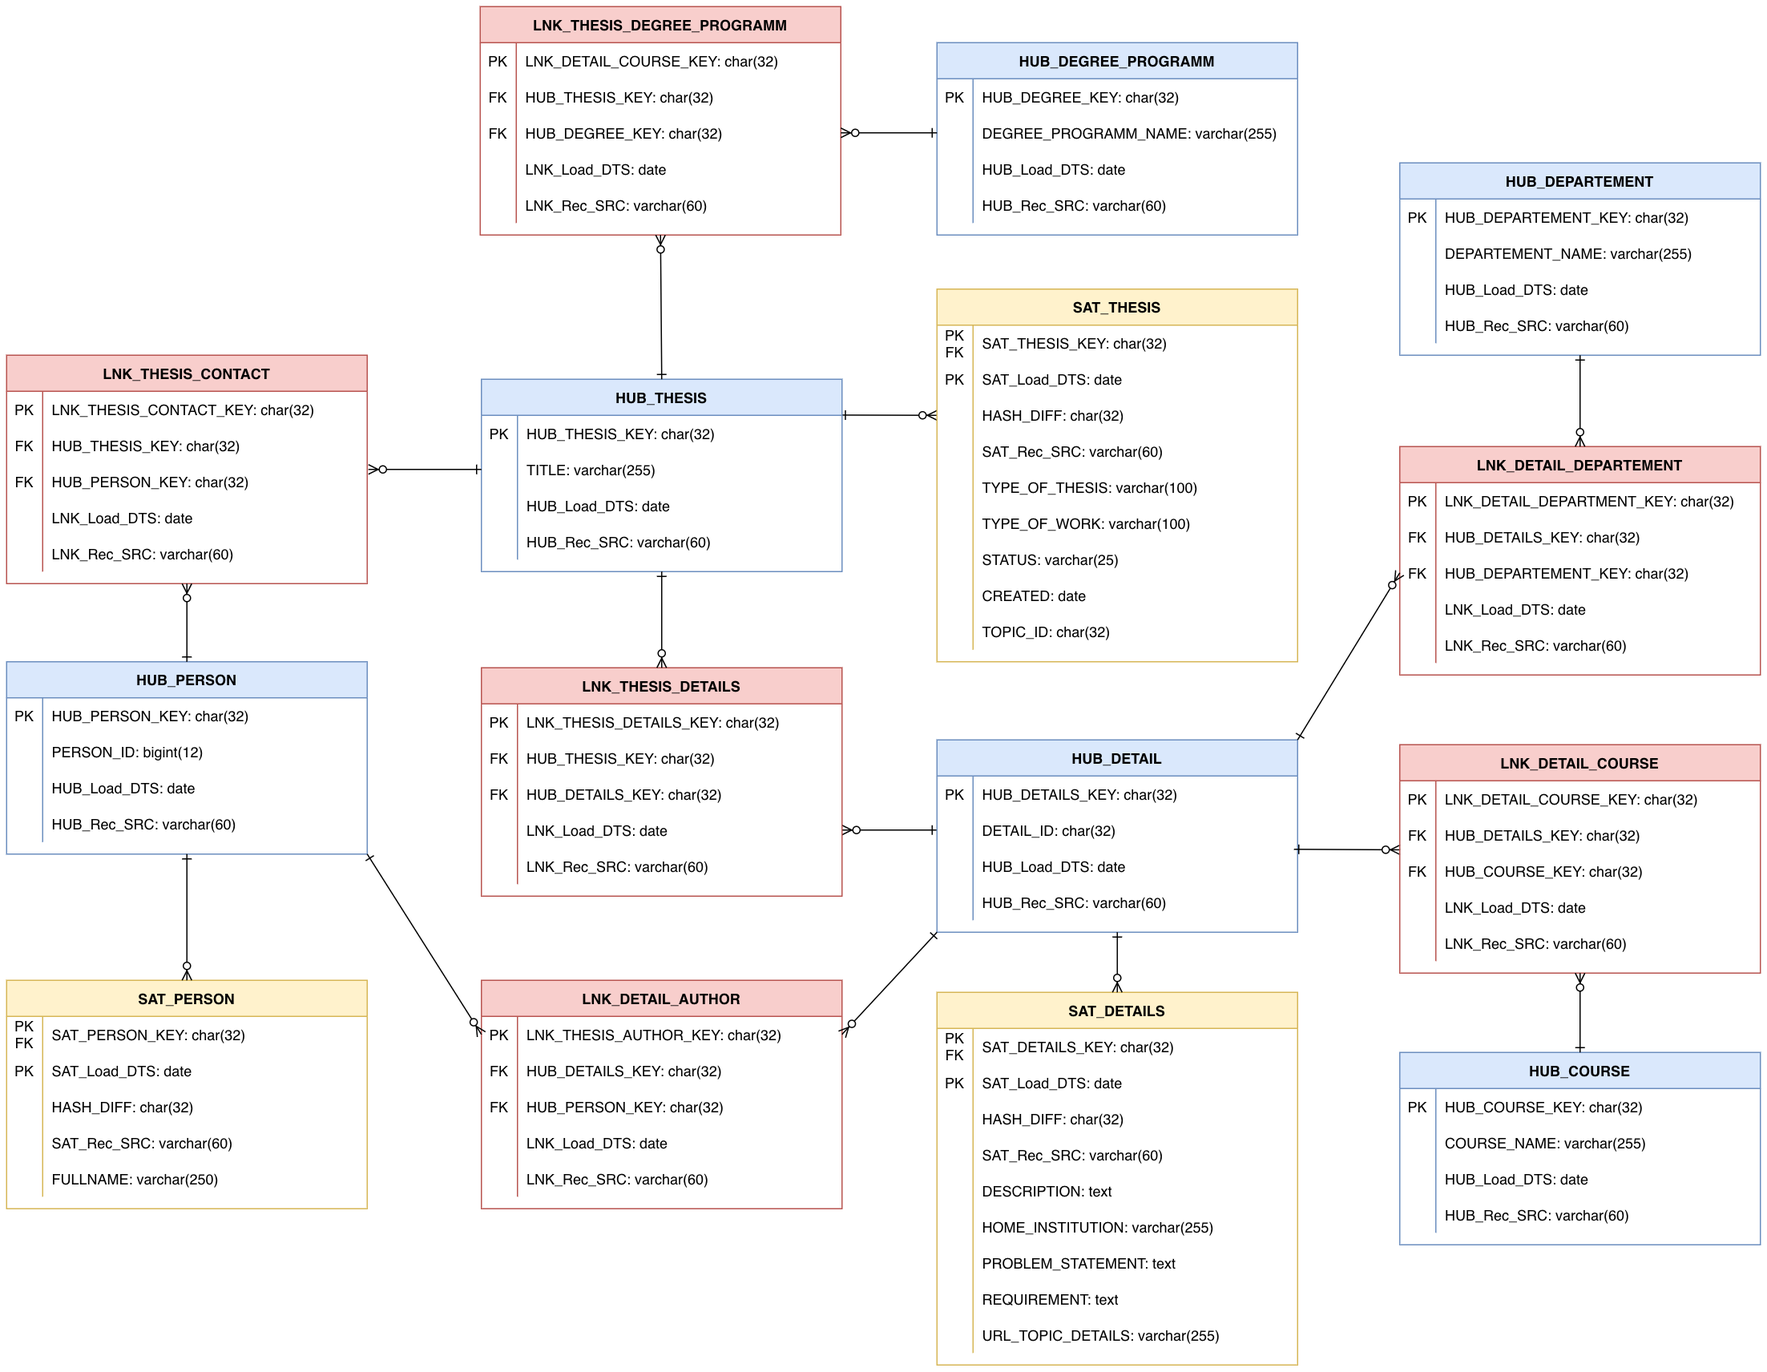
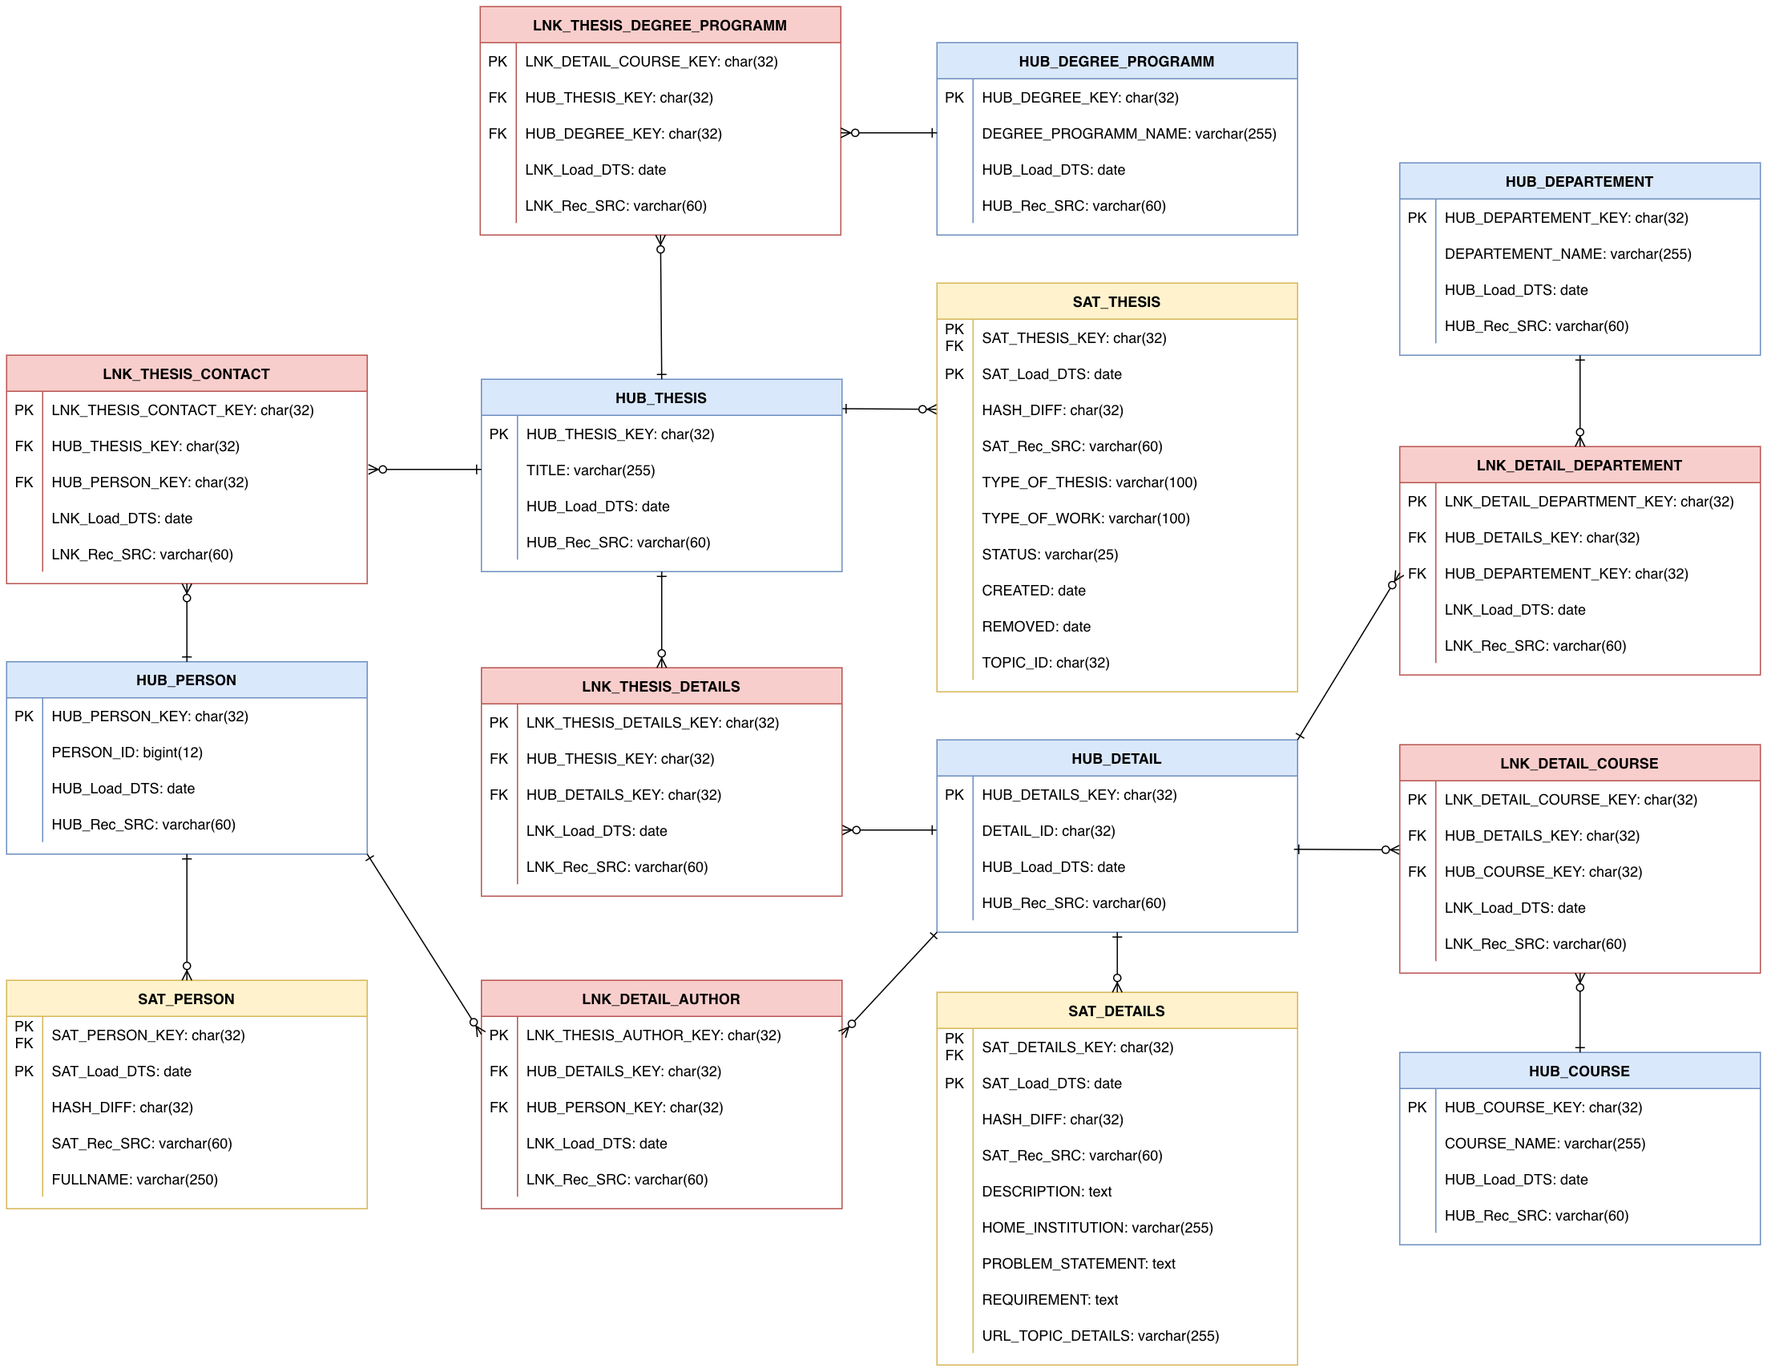
Finish project and documentation

Changed region(s): [[0.5243, 0.1857, 0.7401, 0.4953], [0.4934, 0.2786, 0.5243, 0.3096]]

diff --git a/etl/consolidate.py b/etl/consolidate.py
@@ -121,13 +121,33 @@ def md5_columns(*columns):
 
 
 def generate_person_id():
+    # Generate new person id
     return str(PersonId().id)
 
 
-def determine_removal_date(thesis_df):
-    return thesis_df
+def transform_removal_date(date, latest_export_date):
+    # Return the date when it does not match latest_export_date, else None (no date)
+    if date != latest_export_date:
+        return date
+    else:
+        return None
 
-# No calculation of removal date when no data from yesterday is present
+
+def add_removal_date(thesis_df):
+    # Calculate the latest export date (overall max export date over all thesis data)
+    latest_date = thesis_df['export_date'].max()
+
+    # Group all thesis by title and find the highest (latest) export date for each grouped thesis
+    thesis_date_df = thesis_df.groupby('title', as_index=False)['export_date'].max()
+
+    # Use the latest export date of a thesis as removal date when it is not the overall max export date
+    thesis_date_df['removed'] = thesis_date_df['export_date'].apply(lambda d: transform_removal_date(d, latest_date))
+
+    # Merge the thesis_df with the determined removed date from the thesis_date_df, before drop column "export_date"
+    thesis_date_df.drop('export_date', axis=1, inplace=True)
+    thesis_df = pd.merge(thesis_df, thesis_date_df, how='inner', on='title')
+
+    return thesis_df
 
 
 def insert_into_db(sql_command, *parameters):
@@ -136,12 +156,12 @@ def insert_into_db(sql_command, *parameters):
         # Connect to the PostgreSQL database
         conn = psycopg2.connect(host=LOCALHOST, port=PORT, database=DATABASE, user=USER, password=PASSWORD)
 
-        # create a cursor
+        # Create a cursor
         cursor = conn.cursor()
         cursor.execute(sql_command, *parameters)
         conn.commit()
 
-        # close the communication with the PostgreSQL
+        # Close the communication with PostgreSQL database
         cursor.close()
     except (Exception, psycopg2.DatabaseError) as error:
         print("Error accessing database: {}".format(error))
@@ -174,6 +194,7 @@ def load_data_into_db(thesis_df):
         thesis_requirement = str(thesis.requirement)
         thesis_departements = str(thesis.departements).split('|')
         thesis_courses = str(thesis.assigned_courses).split('|')
+        thesis_removed = thesis.removed
         load_date = str(thesis.export_date)
 
         # Insert the thesis (hub_thesis)
@@ -185,9 +206,9 @@ def load_data_into_db(thesis_df):
         # Insert the thesis satellite (sat_thesis)
         hash_diff = md5_columns(thesis_type, thesis_work_type, thesis_status, thesis_created, thesis_id)
         if hash_diff not in sat_thesis_cache:
-            insert_into_db("INSERT INTO sat_thesis VALUES (%s, %s, %s, %s, %s, %s, %s, %s, %s);",
+            insert_into_db("INSERT INTO sat_thesis VALUES (%s, %s, %s, %s, %s, %s, %s, %s, %s, %s);",
                            (md5(thesis_title), load_date, hash_diff, 'DigiDigger', thesis_type, thesis_work_type,
-                            thesis_status, thesis_created, thesis_id))
+                            thesis_status, thesis_created, thesis_removed, thesis_id))
             sat_thesis_cache.add(hash_diff)
 
         # Insert the thesis detail (hub_detail)
@@ -311,8 +332,8 @@ def load_data_into_db(thesis_df):
 
         # Calculate the progress of database import
         imported_thesis += 1
-        if imported_thesis == 1 or imported_thesis == number_of_thesis or imported_thesis % 20 == 0:
-            import_progress = round((imported_thesis / number_of_thesis) * 100, 2)
+        if imported_thesis == number_of_thesis or imported_thesis % 1000 == 0:
+            import_progress = round((imported_thesis / number_of_thesis) * 100)
             print('Database import progress: {}%'.format(import_progress))
 
 
@@ -339,7 +360,11 @@ transformed_thesis_df = None
 # Iterate over every export folder in the data set directory
 for export_dir in export_dir_set:
 
-    print('Processing export folder: {}'.format(export_dir))
+    # Calculate the progress of Extraction and Transformation process
+    progress = round((number_of_finished_dirs / number_of_dirs) * 100)
+    print('Processing export folder: {} -> Progress: {}%'.format(export_dir, progress))
+
+    # Build export file paths
     db_topics_path = "/".join([data_set_path, export_dir, db_topics_filename])
     db_topics_detail_path = "/".join([data_set_path, export_dir, db_topics_add_filename])
 
@@ -442,35 +467,29 @@ for export_dir in export_dir_set:
         print("Error: Number of topics in consolidation Dataframes differ!")
         sys.exit()
 
-    # Append the merged Dataframe for the export folder to resulting Dataframe
+    # Append the merged Dataframe for this export folder to the Dataframe with all exports
     if transformed_thesis_df is not None:
         transformed_thesis_df = pd.concat([transformed_thesis_df, merged_df], ignore_index=True)
     else:
         # The first daily export can be assigned directly
         transformed_thesis_df = merged_df
 
-    # Calculate the progress of Extraction and Transformation process
+    # Increase counter for progress
     number_of_finished_dirs += 1
-    progress = round((number_of_finished_dirs / number_of_dirs) * 100, 2)
-    print('Finished. Progress: {}%'.format(progress))
 
-# With the whole transformed thesis Dataframe a duplication check is possible (drop all full duplicates)
-# The export_date must be ignored because two thesis only differ in export_date are the same from business perspektive
-relevant_columns = transformed_thesis_df.columns.difference(['export_date'])
-print("Total number of thesis entries imported: {}".format(len(transformed_thesis_df)))
-transformed_thesis_df.drop_duplicates(subset=relevant_columns, inplace=True, keep='last')
-print("Cleaned (unique) number of thesis entries imported: {}".format(len(transformed_thesis_df)))
-# Write transformed Dataframe with thesis data to CSV file for testing purposes
-transformed_thesis_df.to_csv('transformed_thesis_df.csv', mode='a', index=False, encoding='utf-8', sep=';')
+print("Processing of {} export folders finished.".format(number_of_finished_dirs))
 
-# Determine the removal date of the thesis (when possible due to missing export data, see README.md, Step 4).
-print("Trying to determine removal date of thesis...")
-transformed_thesis_df = determine_removal_date(transformed_thesis_df)
+# Add the removal date of the thesis (when possible due to missing export data, see README.md Step 1).
+print("Trying to determine removal date of thesis data...")
+transformed_thesis_df = add_removal_date(transformed_thesis_df)
+print("Finished to determine removal date of thesis data.")
+
+# KPIs for the ETL process (see README.md, Step 5)
+print("Total number of thesis entries imported: {}.".format(len(transformed_thesis_df)))
 print("Finished the import and transformation of the data set ({}).".format(data_set_path))
 
+# Import merged thesis data in the database
 print("Starting with the database import of the transformed thesis data.")
-
-# Write merged thesis data in the database
-# load_data_into_db(transformed_thesis_df)
+load_data_into_db(transformed_thesis_df)
 
 print("Finished the the database import of the transformed thesis data. Exiting script.")

diff --git a/README.md b/README.md
@@ -1,7 +1,7 @@
 # BI Mini-Project P02
 
 ## Introduction
-BI Mini Project that was developed at the University of Oldenburg. The project is based on a dataset of thesis topics offered at the university.
+BI Mini Project that was developed at the University of Oldenburg. The project is based on a dataset of thesis topics offered at the university in Stud.IP.
 
 This document is a detailed technical report about implementation. For setting up the project see _SETUP.md_.
 
@@ -58,7 +58,10 @@ Furthermore, the different files in the data set contain different data fields. 
 |                          | topic_id                      | **db-topics.json+csv**, db-topics-additional.json+csv |
 |                          | url_topic_details             | **db-topics.json+csv**                                |
 
-For reference of column "Possible Origins", see the folder structure image in this section. The marked (bold) origins show the preferred file for accessing this information later on in the ETL process. A file is **preferred** when it is the only file where this data field is available or when it is already structured convenient (JSON, XML) for extraction. As the "Study Data: Departement" and "Study data: Assigned courses" data fields are only present in the Detail HTML-Export, the HTML must be parsed/transformed when extracting the data.
+For reference of column "Possible Origins", see the folder structure image in this section. The marked (bold) origins show the preferred file for accessing this information later on in the ETL process. A file is **preferred** when it is the only file where this data field is available or when it is already structured convenient (JSON, XML) for extraction. As the "Study Data: Departement" and "Study data: Assigned courses" data fields are only present in the Detail HTML-Export, the HTML must be parsed/transformed when extracting the data. 
+The two data fields "kurzdarstellung_der_problematik" and "abgeschlossen_am" that are present in the newest daily 
+thesis exports contain mostly empty values and are disregarded.
+
 The table concludes this step of the project.
 
 ## Step 2: Data Vault Model
@@ -109,6 +112,7 @@ The dataset contains about 2.2GB of raw data that is assumed to contain a lot of
 Before starting the ETL-Process, cleanup of the data set and its structure may be reasonable. Further information and 
 necessary cleaning is described in the _SETUP.md_ (_Preparing the Data Set_).
 
+### Extract and Transform
 To extract and transform the data from the original data set into a "consolidated" data set a Python script is used. 
 For working with the data the _Pandas Framework_ was used, as it provides convenient functionalities (e.g. Dataframes) 
 for ETL processes. The script does the following steps for _each_ export folder in the dataset:
@@ -121,37 +125,87 @@ for ETL processes. The script does the following steps for _each_ export folder 
 * Merge the data fields from the different files
 * Expand the merged data with relevant data fields
   * Export date of the thesis (export folder date)
-  * Removal/ Termination date of thesis
-* Import the data into the database by SQL insert statements
+  * Removed date of thesis
+* Check if all data frames contain same number of rows
+* Removing duplicates in the resulting Dataframe
 
-For the extraction of data from the HTML-Exports complex functions were needed, whereas the CSV files were read into 
-memory by Dataframes (_Pandas_). For the connection and import into the Database the Framework _psycopg2_ was used.
-As a generator person id was needed for inserting the authors and contacts into the thesis database, an own id generator 
-was implemented (see etl/id_generator.py). As an alternative, a database sequence could be used but must be queried 
-before every new person insert.
+For the extraction of data from the HTML-Exports Python functions were implemented, whereas the CSV files were read into 
+memory by Dataframes (_Pandas_). The expansion of the merged data was necessary to answer the business questions and to comply with the Data Vault Model.
+The _export date_ of the imported thesis files is needed to track changes in the data. The export date is given 
+directly by the export folder name.
+The _removed_ date shows when a thesis was removed/hidden and is no more offered. As there is missing data in the daily 
+thesis exports (see Step 1, Note) and the removal date of thesis is not given, it was determined as follows:
 
-The expansion of the merged data was necessary to answer the business questions and to comply with the Data Vault Model.
-The _export date_ of the files/ imported data is needed to track changes in the data. The _removal date_ shows when a 
-thesis was removed/hidden and is no more offered. As there is missing data in the daily thesis exports (see Step 1, Note) 
-and the remove that is not given, the _removal date_ of the thesis must be calculated or assumed. As the list of thesis 
-in the daily exports is ordered by creation date, following steps are used for:
-* Compare the thesis list of the daily export with the last daily export (yesterday)
-  * If a thesis is not present anymore: Mark it as "probably deleted"
-  * If a thesis is not present anymore and a thesis with an earlier creation data is still in list: Set the removal date!
-  * If a thesis is still present: Do nothing
-  * If thesis is marked as "probably deleted" and is present again (in the existing window): Remove "probably deleted"
-* At the end of the process consider all thesis that are marked with "probably deleted"
-  * If the thesis is in the missing data "window" (created date in missing window): Maintain "probably deleted"
+* Define the overall latest export date in the data set
+* Group the exported thesis and determine the latest export date of each thesis
+* Compare the latest export date of each thesis with the overall latest export date
+  * If the dates are equal, the thesis was present in the latest export and so it is not removed
+  * If the dates are not equal, the thesis is no longer present in the latest export and the removal date is the last 
+date the thesis was exported
 
+After important and transforming all thesis data, the consistency of the merged Dataframe is checked by comparing 
+the number of rows to all other Dataframes. As a last step, all duplicated rows in the merged Dataframe are removed by 
+checking for duplicates on all columns except _export date_. This yields a duplicate free merged Dataframe for import 
+inti the database.
 
-For further information see the commented source code under *etl/consolidate.py*. 
+### Import
+Next step of the ETL-Process is the import of the transformed thesis data in the database. For the database connection 
+and imports the Framework _psycopg2_ is used. The connection to the database is established with the beforehand created 
+thesis user. The import of thesis data is implemented by iterating row-wise over all thesis in the merged Dataframe. 
+For every row (thesis), all data fields are extracted and used to create the _Insert_ statements. 
+
+The _Insert_ statements are implemented considering the Data Vault Model with calculation of hash values for business 
+keys and calculation of _hash_diff_ on descriptive columns. In order to avoid duplicate database imports in Hubs, 
+Satellites and Links a Set "cache" with already inserted md5 hash values is held. When a md5 hash value is already 
+present in the Set "cache", no insert statement in the table is executed. The md5 hash calculation is done by two 
+helper functions. The following code shows an example for a Link table, the variables are named similar to the Data 
+Vault Model (_see Table lnk_detail_author_):
+```python
+detail_author_key = md5_columns(thesis_id, author_person_id)
+if detail_author_key not in lnk_detail_author_cache:
+  hub_details_key = md5(thesis_id)
+  hub_person_key = md5(author_person_id)
+  insert_into_db("INSERT INTO lnk_detail_author VALUES (%s, %s, %s, %s, %s);",
+                 (detail_author_key, hub_details_key, hub_person_key, load_date, 'DigiDigger'))
+  lnk_detail_author_cache.add(detail_author_key)
+```
+
+As a generated person id was needed for inserting the authors and contacts into the thesis database, an own id 
+generator was implemented (see etl/id_generator.py). As an alternative, a database sequence could be used but must 
+be queried before every new person insert.
+
+For further information and documentary of the ETL process see the commented source code under *etl/consolidate.py*. 
+To track progress and outcome of the ETL-process, logging is implemented and a report of the progress is given when 
+executing the Python script.
 
 In order to execute the ETL process (Python Script) the development environment must be configured. This is described 
 in the SETUP.md (Creating Python Environment).
 
 ## Step 5: Visualization and KPIs (Project Tasks)
-The last step after importing the thesis data into the database is the querying, visualization and the evaluation of KPIs. With 
-the visualization and KPIs the business questions can be answered.
+The last step after importing the thesis data into the database is the querying, visualization and the evaluation of 
+KPIs. With the visualization and KPIs the business questions can be answered.
+
+To ensure the success of the ETL process and the import of thesis data before starting with visualizations, detailed 
+logging and a progress indicator is implemented in the Python Script, as shown in the following excerpt. 
+For instance, the logging shows that all export folders contained about 78,000 thesis entries and 751 unique thesis 
+entries (including changes):
+```
+.........
+Processing export folder: 20221124_2300 -> Progress: 100%
+Processing of 493 export folders finished.
+Trying to determine removal date of thesis data...
+Finished to determine removal date of thesis data.
+Total number of thesis entries imported: 78523.
+Finished the import and transformation of the data set (../data-uol-thesis-topics).
+Starting with the database import of the transformed thesis data.
+Database import progress: 1%
+.........
+```
+The ~78,000 thesis are resulting from daily exports between 2021-07-19 - 2022-11-24, which are 493 days. As every day 
+has about 150 exported thesis entries (2 - 4 thesis list pages à 50 thesis), we can calculate the expected thesis entries:\
+`493 days * 150 thesis/day = 73,950 thesis`\
+Comparing ~78,000 actual thesis entries with the 73,950 expected thesis entries shows a plausible import process.
+Querying the database after import shows that only a small fraction of these entries are unique thesis entries.
 
 The visualizations and dashboards are created in Metabase. Metabase uses the supplied PostgreSQL database for saving 
 internal data like Dashboards (see Step 3). Metabase is automatically installed and configured by Docker via Docker Compose

diff --git a/SETUP.md b/SETUP.md
@@ -27,6 +27,8 @@ Another issue in the dataset is missing files in the export from 2022-09-08. In 
 several files (like db-topics.csv) are missing. Therefore, we must the export from that day:\
 `rm -r data-uol-thesis-topics/20220908_2b64/`
 
+Note that this removed folder is later on considered in the ETL-Process when calculating removal dates of thesis.
+
 ## Installing PostgreSQL and Metabase
 The PostgreSQL Database is required for the import of the thesis data and for the Metabase application. Metabase is 
 needed for data visualisation and creation of dashboards. 
@@ -69,7 +71,7 @@ accessible by opening the Endpoint given by Docker/ Docker Console, it should be
 First step is to run the initial configuration with the wizard, after clicking "Let's Go" on the welcome screen:
 ![Metabase User Config](images/metabase_user_config.png)
 
-Choose language (1) and insert contact data (2). After that we connect our thesis database to Metabase (3):
+Choose language (1) and insert contact data (2). After that we connect our thesis database to Metabase (3) with the _thesis_user_ (see database/create.sql):
 ![Metabase Database Config](images/metabase_database_config.png)
 
 The wizard step (4) for usage data preferences is optional and can be disabled. After clicking "Finish" we can directly
